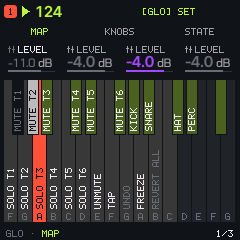
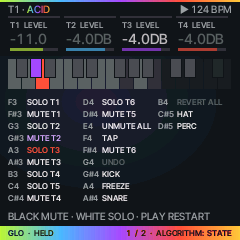
feat(ui): GLO layer in the ACID look

diff --git a/tests/ui_test.c b/tests/ui_test.c
@@ -11605,14 +11605,11 @@ static int test_lz_layer(void)
     int16_t b0;
     ui_power_on(); frame();
     btn_down(B_GLO); frames(800);
-    ok = ui.layer == LAYER_GLO && lz_on() && lz_fam() == LZ_LAYER && ui.lylv == 0u && lz_tab_lit(0) &&
-         lz_crumb_is("GLO \xB7 MAP");
+    ok = ui.layer == LAYER_GLO && lz_on() && lz_fam() == LZ_LAYER && !uxl_state(LAYER_GLO) && lz_crumb_is("GLO \xB7 MAP");
     turn(EN_ALGO, 1); frame();
-    ok &= ui.lylv == 1u && lz_tab_lit(1) && song.sel == 0u && lz_crumb_is("GLO \xB7 KNOBS");
+    ok &= uxl_state(LAYER_GLO) == 1u && ui.lylv == 0u && song.sel == 0u;   /* (3c-1 task 9: MAP and STATE, its own bit) */
     turn(EN_ALGO, 1); frame();
-    ok &= ui.lylv == 2u && lz_tab_lit(2);
-    turn(EN_ALGO, 1); frame();
-    ok &= ui.lylv == 2u && song.sel == 0u;                          /* (no wrap) */
+    ok &= uxl_state(LAYER_GLO) == 1u && song.sel == 0u;             /* (no further, no wrap) */
     b0 = song.g[G_BPM];
     turn(EN_SELECT, 2); frame();
     ok &= song.g[G_BPM] != b0;                                      /* (GLO + SELECT: the tempo, as before) */
@@ -11622,10 +11619,10 @@ static int test_lz_layer(void)
     ok &= song.sel == 1u;                                           /* (let go: ALGORITHM the track again) */
     turn(EN_ALGO, -1); frame();
     btn_down(B_GLO); frames(800);
-    ok &= ui.lylv == 2u && lz_tab_lit(2);                           /* (remembered) */
+    ok &= uxl_state(LAYER_GLO) == 1u;                               /* (remembered) */
     btn_up(B_GLO); frame(); frame();
-    ui.lylv = 0;
-    bad += check("0.8.5 LENTE layers: MAP <-> KNOBS <-> STATE by ALGORITHM while held (remembered); SELECT keeps its combos", ok);
+    ui.uxlv = 0;
+    bad += check("0.8.5 LENTE layers: MAP <-> STATE by ALGORITHM while held (remembered; 3c-1 task 9: GLO's own bit, no KNOBS); SELECT keeps its combos", ok);
     ui_power_on();
     return bad;
 }
@@ -17411,7 +17408,7 @@ static int test_t9_knobs(void)
             for (s = 0; s < 2u; s++) okw &= 8 + uxf_w(UXL_WHERE[k]) + 16 + uxf_w(UXL_ALGO[s]) <= 232;
         for (dm = 0; dm < 3u; dm++) {                    /* (3c-1 task 5: a synth, a DRUM track on each kit: CLEAR <lane>) */
         set_engine_of(TSEL, dm ? ENGI_DRUM : ENGI_ANALOG); TSEL->engine = TSEL->eng_req; TSEL->p[P_E0] = (int16_t)(dm ? dm - 1u : 0u);
-        for (l = 0; l < 6u; l++)                         /* every key's name a layer can show, in the list's column */
+        for (l = 0; l < 7u; l++)                         /* every key's name a layer can show (3c-1 task 9: GLO's too), in the list's column */
             for (s = 0; s < 3u; s++) {
                 pfx_tgt = (uint8_t)s;
                 rp_put(RP_CLICK, s);                     /* (CLICK OFF / REC / ON on REC's G3) */
@@ -17419,7 +17416,7 @@ static int test_t9_knobs(void)
                     char nm[12], nt[4];
                     int blk;
                     uint32_t p = uxl_key(k, &blk, nt);
-                    (void)ly_keyname(l < 4u ? UXT9_L[l] : l == 4u ? LAYER_SEQ : LAYER_REC, blk, p, nm);
+                    (void)ly_keyname(l < 4u ? UXT9_L[l] : l == 4u ? LAYER_SEQ : l == 5u ? LAYER_REC : LAYER_GLO, blk, p, nm);
                     if (nm[0] && UXL_LS_NM + text_w(&UF_LBL, uxl_word(nm)) > UXL_LS_W - 1) {
                         printf("  key %s: \"%s\" %d px\n", nt, uxl_word(nm), (int)text_w(&UF_LBL, uxl_word(nm))); okw = 0;
                     }
@@ -17513,6 +17510,77 @@ static int test_c5_layers(void)
     ui.uxlv = 0;
     bad += check("  .. REC: the knob row (K1 CLICK), the blend, its own view bit", ok);
     bad += check("  .. SEQ and REC are drawn by ux_layer.c", own);
+    ui_power_on();
+    return bad;
+}
+/* ---------------------------------------------- (ACID FM 3c-1 task 9) the GLO layer in the ACID look --- */
+static uint16_t uxc9_black(uint32_t j) { return ux_px(8u + PK_BLK[j] * UXL_KB_W - 5u + 4u, UX_Y_PANEL + UXL_KB_Y + 5u); }
+static uint16_t uxc9_white(uint32_t i) { return ux_px(8u + i * UXL_KB_W + 3u, UX_Y_PANEL + UXL_KB_Y + 25u); }
+static int test_c9_glo(void)
+{
+    int bad = 0, ok = 1;
+    uint32_t c;
+    ux_knob_t k[4];
+    uint16_t sc;
+    char nm[12];
+    ui_power_on(); frame();
+    go_title("ENV"); frame();
+    trk[1].p[P_MUTE] = 1; trk[3].p[P_MUTE] = 1;
+    btn_down(B_GLO); frames(800);
+    ok &= ui.layer == LAYER_GLO && ux_layer_owns(LAYER_GLO);
+    if (!ok) printf("  GLO: not open\n");
+    ui.force = 1; frame();
+    if (!uxt9_blend(ux_px(120, 0)) || !uxt9_blend(ux_px(2, 238))) { printf("  GLO: no blend line / band footer\n"); ok = 0; }
+    if (ux_px(236, UX_Y_STATUS + 10u) != UX_BG) { printf("  GLO: status not on BG\n"); ok = 0; }
+    if (uxc9_black(1) != UX_VIOLET || uxc9_black(3) != UX_VIOLET) { printf("  GLO: muted black keys %04x %04x\n", uxc9_black(1), uxc9_black(3)); ok = 0; }
+    if (uxc9_black(0) == UX_VIOLET) { printf("  GLO: T1 sounding but violet\n"); ok = 0; }
+    uxl_knobs(LAYER_GLO, k);                             /* KNOB 1..4: T1..T4 LEVEL, as HOME's window */
+    ok &= str_eq(k[0].label, "T1 LEVEL") && str_eq(k[3].label, "T4 LEVEL") && k[0].value[0] && k[1].off && !k[0].off;
+    if (!ok) printf("  GLO: knobs \"%s\" \"%s\" off %u %u\n", k[0].label, k[3].label, k[1].off, k[0].off);
+    for (c = 0; c < 4u; c++) {
+        uint32_t x = UX_COL_X0 + c * UX_COL_PITCH;
+        uint16_t r = ux_px(x + 20u, UX_Y_KNOBS);
+        if (r != UX_LINE && r != ux_knob_col(c)) { printf("  GLO knob %u: rule %04x\n", (unsigned)c, r); ok = 0; }
+    }
+    ok &= !strstr(uxl_status(LAYER_GLO, k, &sc), "CLOCK") && strstr(uxl_status(LAYER_GLO, k, &sc), "RESTART");
+    if (!ok) printf("  GLO: status \"%s\"\n", uxl_status(LAYER_GLO, k, &sc));
+    (void)ly_keyname(LAYER_GLO, 0, 7u, nm);              /* F4 TAP: breathes with the inside clock, in the ux fill */
+    if (uxc9_white(7) != ux_mix(UX_BG, UX_MID, 55) || !str_eq(nm, "TAP")) { printf("  GLO: F4 %04x want %04x\n", uxc9_white(7), ux_mix(UX_BG, UX_MID, 55)); ok = 0; }
+    turn(EN_K1, 3); frame();                             /* a knob turned: its readout on the status line */
+    ok &= strstr(uxl_status(LAYER_GLO, k, &sc), "T1 LEVEL") != 0 && sc == UX_TEXT;
+    if (!ok) printf("  GLO: turn status \"%s\"\n", uxl_status(LAYER_GLO, k, &sc));
+    key_down(white(2)); frames(4);                       /* a SOLO held: T3's key ACCENT, perf_solo */
+    ui.force = 1; frame();
+    if (uxc9_white(2) != UX_ACCENT || perf_solo != 4u) { printf("  GLO: solo key %04x solo %u\n", uxc9_white(2), (unsigned)perf_solo); ok = 0; }
+    key_up(white(2)); frames(4);
+    song.g[G_CLOCK] = 1; ui.force = 1; ui.msg_t = 0; ux_hot_k = -1; frame();   /* an outside clock: TAP dim, the status line says so */
+    if (uxc9_white(7) != UX_LINE) { printf("  GLO ext: F4 %04x\n", uxc9_white(7)); ok = 0; }
+    ok &= strstr(uxl_status(LAYER_GLO, k, &sc), "CLOCK: USB") != 0;
+    if (!ok) printf("  GLO ext: status \"%s\"\n", uxl_status(LAYER_GLO, k, &sc));
+    song.g[G_CLOCK] = 2;
+    ok &= strstr(uxl_status(LAYER_GLO, k, &sc), "CLOCK: TRS") != 0;
+    song.g[G_CLOCK] = 0;
+    ui.lylv = 0; ui.uxlv = 0;                            /* ALGORITHM: its own view bit; MAP <-> STATE */
+    turn(EN_ALGO, 1); frame();
+    ok &= ((ui.uxlv >> LAYER_GLO) & 1u) && !ui.lylv && uxl_state(LAYER_GLO);
+    turn(EN_ALGO, -1); frame();
+    ok &= !((ui.uxlv >> LAYER_GLO) & 1u);
+    btn_up(B_GLO); frames(400);
+    ui.uxlv = 0;
+    bad += check("ACID FM 3c-1 task 9: GLO in the ACID look: muted keys VIOLET, a solo held ACCENT, K1..K4 T1..T4 LEVEL, CLOCK: USB / TRS, own view bit", ok);
+    ok = 1;                                              /* DRUM-X group mutes on black 7..10 */
+    ui_power_on(); frame();
+    set_engine_of(TSEL, ENGI_DRUM); TSEL->engine = TSEL->eng_req;
+    go_title("ENV"); frame();
+    btn_down(B_GLO); frames(800);
+    dx_mute_set(DXG_KICK | DXG_HAT);
+    ui.force = 1; frame();
+    (void)ly_keyname(LAYER_GLO, 1, 6u, nm);
+    ok &= str_eq(nm, "KICK");
+    if (uxc9_black(6) != UX_VIOLET || uxc9_black(8) != UX_VIOLET || uxc9_black(7) == UX_VIOLET) { printf("  GLO DRUM: group keys %04x %04x %04x\n", uxc9_black(6), uxc9_black(7), uxc9_black(8)); ok = 0; }
+    btn_up(B_GLO); frames(400);
+    dx_mute_set(0);
+    bad += check("  .. a DRUM track: KICK SNARE HAT PERC on black 7..10, muted ones VIOLET", ok);
     ui_power_on();
     return bad;
 }
@@ -17716,18 +17784,18 @@ static int test_t9_fix(void)
     btn_up(B_FX); frames(400);
     if (fx_lock) { press(B_FX); frames(100); }
     btn_down(B_GLO); frames(800);
-    ok &= ui.layer == LAYER_GLO && ui.lylv == 0u;
+    ok &= ui.layer == LAYER_GLO && uxl_state(LAYER_GLO) == 0u;
     turn(EN_ALGO, 1); frame();
-    ok &= ui.lylv == 1u;
+    ok &= uxl_state(LAYER_GLO) == 1u && ui.lylv == 0u;
     btn_up(B_GLO); frames(400);
     btn_down(B_FX); frames(800);
-    ok &= ui.layer == LAYER_FX && uxl_state(LAYER_FX) == 1u && ui.lylv == 1u;
+    ok &= ui.layer == LAYER_FX && uxl_state(LAYER_FX) == 1u && uxl_state(LAYER_GLO) == 1u;
     btn_up(B_FX); frames(400);
     if (fx_lock) { press(B_FX); frames(100); }
     btn_down(B_EDIT); frames(800);
     ok &= ui.layer == LAYER_EDIT && uxl_state(LAYER_EDIT) == 0u;
     btn_up(B_EDIT); frames(400);
-    if (!ok) printf("  views: FX %u EDIT %u GLO %u\n", (unsigned)uxl_state(LAYER_FX), (unsigned)uxl_state(LAYER_EDIT), ui.lylv);
+    if (!ok) printf("  views: FX %u EDIT %u GLO %u\n", (unsigned)uxl_state(LAYER_FX), (unsigned)uxl_state(LAYER_EDIT), (unsigned)uxl_state(LAYER_GLO));
     bad += check("  a layer's view (ALGORITHM) its own: FX's STATE not GLO's, GLO's KNOBS not FX's, EDIT still MAP", ok);
     /* 5. EDIT's status line says SELECT dices (a synth and DRUM) */
     ok = strstr(UXL_SAY[UXL_S_EDIT], "SELECT DICE") && strstr(UXL_SAY[UXL_S_EDRM], "SELECT DICE");
@@ -19627,6 +19695,7 @@ int main(void)
     bad += test_t8_names();
     bad += test_t8_fix();                               /* (ACID FM 3b task 8 fix) */
     bad += test_t9_look();                              /* (ACID FM 3b task 9) */
+    bad += test_c9_glo();                               /* (ACID FM 3c-1 task 9) */
     bad += test_c5_layers();                            /* (ACID FM 3c-1 task 5) */
     bad += test_t9_knobs();
     bad += test_t9_names();

diff --git a/firmware/src/ux_layer.c b/firmware/src/ux_layer.c
@@ -1,7 +1,7 @@
 /* SPDX-License-Identifier: GPL-3.0-only */
 /* Copyright (C) 2026 NorfolkHacker */
-/* ACID FM's held layers (ux_layer.h; 3b spec 2.6; 3c-1 task 5 spec 2.6): EDIT, LFO's MACRO, FX's performance layer, SCL, SEQ TOOLS
- * and REC in the 3a look. The keys,
+/* ACID FM's held layers (ux_layer.h; 3b spec 2.6; 3c-1 tasks 5, 9 spec 2.6, 3.4): EDIT, LFO's MACRO, FX's performance layer, SCL,
+ * SEQ TOOLS, REC and GLO (the mutes, the solos, KNOB 1..4 the levels) in the 3a look. The keys,
  * the knobs, the LEDs, the gesture and the latches are ui_layer.c's (ly_keyname names each key and its state, layer_knob turns
  * the knobs, layer_state lists what is on): only the drawing is here. The screen as a section page's (ux_section.c): the header
  * (T3 . the sound, the transport), the knob row (the layer's four in KNOB 1..4's colours, plain names: FX's macros or the
@@ -13,7 +13,8 @@
 
 static int ux_layer_owns(uint32_t l)
 {
-    return l == LAYER_EDIT || l == LAYER_MACRO || l == LAYER_FX || l == LAYER_SCL || l == LAYER_SEQ || l == LAYER_REC;
+    return l == LAYER_EDIT || l == LAYER_MACRO || l == LAYER_FX || l == LAYER_SCL || l == LAYER_SEQ || l == LAYER_REC ||
+           l == LAYER_GLO;
 }
 
 /* FX's KNOB 1..4, the performance macros (perform.c perf_m), by what they do (spec 0 rule 4; one name a meaning): STEP LOOP
@@ -26,16 +27,18 @@ static const char *const UXL_IVL[8] = {"OFF", "+2ND", "+3RD", "+4TH", "+5TH", "+
 /* .. while a glitcher's key is down, its four (ui_layer.c GX_K: GLITCH, TAPE STOP, SHUFFLE, FREEZE; JIANT's DENS VARI) */
 static const char *const UXL_GX[16] = {"DENSITY", "PITCH", "SIZE", "VARIANT", "SCRATCH", "TIME", "CURVE", "",
                                        "AMOUNT", "SIZE", "SPEED", "VARIANT", "DENSITY", "PITCH", "SPRAY", "SIZE"};
+static const char *const UXL_LV[NTRK] = {"T1 LEVEL", "T2 LEVEL", "T3 LEVEL", "T4 LEVEL", "T5 LEVEL", "T6 LEVEL"};   /* GLO's */
 static const char *const UXL_MAC[4] = {"MACRO 1", "MACRO 2", "MACRO 3", "MACRO 4"};   /* (the matrix's SOURCE names) */
 /* the keys' words (ly_keyname's, JIANT's) in plain ones on the MAP; the others as they are */
-static const char *const UXL_KEYJ[16] = {"RPT 1/8", "RPT 1/16", "RPT 1/32", "OCT-", "OCT+", "1/2 TEMPO", "DEC-", "DEC+",
-                                         "STUT 1/8", "STUT 1/16", "ATK+", "TRK ALL", "TRK SYN", "TRK DRM", "INIT+KIT", "RCL+KIT"};
-static const char *const UXL_KEYP[16] = {"REPEAT 1/8", "REPEAT 1/16", "REPEAT 1/32", "OCT DOWN", "OCT UP", "HALF TEMPO",
+static const char *const UXL_KEYJ[17] = {"RPT 1/8", "RPT 1/16", "RPT 1/32", "OCT-", "OCT+", "1/2 TEMPO", "DEC-", "DEC+",
+                                         "STUT 1/8", "STUT 1/16", "ATK+", "TRK ALL", "TRK SYN", "TRK DRM", "INIT+KIT", "RCL+KIT",
+                                         "UNMUTE"};
+static const char *const UXL_KEYP[17] = {"REPEAT 1/8", "REPEAT 1/16", "REPEAT 1/32", "OCT DOWN", "OCT UP", "HALF TEMPO",
                                          "DECAY -", "DECAY +", "STUTTER 1/8", "STUTTER 1/16", "ATTACK +", "ON ALL", "ON SYNTHS",
-                                         "ON DRUMS", "INIT + KIT", "RECALL + KIT"};
+                                         "ON DRUMS", "INIT + KIT", "RECALL + KIT", "UNMUTE ALL"};
 /* the status line's words when nothing else is said: the layer, what its keys and OCT do */
 enum { UXL_S_FX, UXL_S_LATCH, UXL_S_LOCK, UXL_S_EDIT, UXL_S_EDRM, UXL_S_SCL, UXL_S_MAC, UXL_S_MLAT, UXL_S_TOOLS, UXL_S_TDRM,
-       UXL_S_TBUSY, UXL_S_REC, UXL_S_N };
+       UXL_S_TBUSY, UXL_S_REC, UXL_S_GLO, UXL_S_GUSB, UXL_S_GTRS, UXL_S_N };
 static const char *const UXL_SAY[UXL_S_N] = {"FX: KEYS PLAY EFFECTS \xB7 BLACK KEYS MUTE", "FX LATCH: KEYS ON / OFF \xB7 OCT- ALL OFF",
                                              "FX LOCKED: PRESS FX TO UNLOCK", "EDIT: F3 INIT \xB7 G3 RECALL \xB7 SELECT DICE",
                                              "EDIT: SELECT DICE \xB7 BLACK KEYS MUTE",
@@ -44,15 +47,19 @@ static const char *const UXL_SAY[UXL_S_N] = {"FX: KEYS PLAY EFFECTS \xB7 BLACK K
                                              "SEQ TOOLS: WHITE KEYS \xB7 REC CLEARS ALL",
                                              "SEQ TOOLS: LANES ON BLACK \xB7 REC CLEARS ALL",
                                              "STOP TO EDIT \xB7 REC CLEARS ALL",
-                                             "REC: F3 CLEAR \xB7 G3 CLICK \xB7 KNOB 1 CLICK"};
+                                             "REC: F3 CLEAR \xB7 G3 CLICK \xB7 KNOB 1 CLICK",
+                                             "BLACK MUTE \xB7 WHITE SOLO \xB7 PLAY RESTART",   /* (3c-1 task 9) */
+                                             "CLOCK: USB \xB7 NO TAP \xB7 NO RESTART",
+                                             "CLOCK: TRS \xB7 NO TAP \xB7 NO RESTART"};
 static const char *const UXL_GXSAY[4] = {"GLITCH HELD: ITS FOUR KNOBS", "TAPE STOP HELD: KNOB 1 SCRATCHES",
                                          "SHUFFLE HELD: ITS FOUR KNOBS", "FREEZE HELD: ITS FOUR KNOBS"};
 /* the footer: the layer and how it is open; ALGORITHM's next view (MAP, STATE) */
-enum { UXL_W_FX, UXL_W_LATCH, UXL_W_LOCK, UXL_W_EDIT, UXL_W_SCL, UXL_W_MAC, UXL_W_MLAT, UXL_W_TOOLS, UXL_W_REC, UXL_W_N };
+enum { UXL_W_FX, UXL_W_LATCH, UXL_W_LOCK, UXL_W_EDIT, UXL_W_SCL, UXL_W_MAC, UXL_W_MLAT, UXL_W_TOOLS, UXL_W_REC, UXL_W_GLO, UXL_W_N };
 static const char *const UXL_WHERE[UXL_W_N] = {"FX \xB7 HOLD", "FX \xB7 LATCH", "FX \xB7 LOCKED", "EDIT \xB7 HELD", "SCL \xB7 HELD",
-                                               "LFO \xB7 MACROS", "LFO \xB7 LATCHED", "SEQ \xB7 TOOLS", "REC \xB7 HELD"};
+                                               "LFO \xB7 MACROS", "LFO \xB7 LATCHED", "SEQ \xB7 TOOLS", "REC \xB7 HELD",
+                                               "GLO \xB7 HELD"};
 static const char *const UXL_ALGO[2] = {"1 / 2 \xB7 ALGORITHM: STATE", "2 / 2 \xB7 ALGORITHM: MAP"};
-/* (3b task 9 fix) layer l's view: 1 STATE, 0 MAP (its own: ui.uxlv; GLO SAVE keep ui.lylv) */
+/* (3b task 9 fix) layer l's view: 1 STATE, 0 MAP (its own: ui.uxlv; SAVE keeps ui.lylv) */
 static uint32_t uxl_state(uint32_t l) { return (ui.uxlv >> l) & 1u; }
 static uint32_t uxl_panels;                             /* the panels drawn (tests/ui_test.c: one a change, none idle) */
 
@@ -105,6 +112,16 @@ static void uxl_knobs(uint32_t l, ux_knob_t k[4])
             str_cpy(k[c].value + str_len(k[c].value), "%", sizeof k[c].value - str_len(k[c].value));
             k[c].bar = (uint8_t)(macro_v[c] * 255u / 127u);
         }
+    } else if (l == LAYER_GLO) {                        /* T1..T4 LEVEL (T5, T6 selected: T3..T6), as HOME's window; a muted or
+                                                         * unsoloed track's dim */
+        for (c = 0; c < 4u; c++) {
+            uint32_t t = c + trk_base4();
+            int16_t v = trk[t].p[P_LEVEL];
+            k[c].label = UXL_LV[t % NTRK];
+            uxs_val(&TP[P_LEVEL], v, k[c].value, sizeof k[c].value);
+            k[c].bar = (uint8_t)clamp((v - TP[P_LEVEL].min) * 255 / (TP[P_LEVEL].max - TP[P_LEVEL].min), 0, 255);
+            k[c].off = (uint8_t)!glo_sounding(t);
+        }
     } else if (l == LAYER_REC) {                        /* K1 CLICK (OFF REC ON); K2..K4 are nobody's (ui_layer.c RL_N) */
         uint32_t v = rp_get(RL_F[0]);
         k[0].label = RL_LABEL[0];
@@ -153,6 +170,8 @@ static const char *uxl_status(uint32_t l, const ux_knob_t k[4], uint16_t *col)
         return UXL_SAY[UXL_S_SCL];
     if (l == LAYER_REC)
         return UXL_SAY[UXL_S_REC];
+    if (l == LAYER_GLO)                                 /* (an outside clock: TAP and RESTART refuse, tempo_ext / layer_play) */
+        return UXL_SAY[song.g[G_CLOCK] ? song.g[G_CLOCK] == 1 ? UXL_S_GUSB : UXL_S_GTRS : UXL_S_GLO];
     if (l == LAYER_SEQ)
         return UXL_SAY[chain_busy() ? UXL_S_TBUSY : drum_track(TSEL) ? UXL_S_TDRM : UXL_S_TOOLS];
     return UXL_SAY[layer_open() ? UXL_S_MAC : UXL_S_MLAT];
@@ -161,8 +180,8 @@ static const char *uxl_where(uint32_t l)
 {
     if (l == LAYER_FX)
         return UXL_WHERE[fx_lock && !ui.ly ? UXL_W_LOCK : perf_latch_on ? UXL_W_LATCH : UXL_W_FX];
-    if (l == LAYER_SEQ || l == LAYER_REC)
-        return UXL_WHERE[l == LAYER_SEQ ? UXL_W_TOOLS : UXL_W_REC];
+    if (l == LAYER_SEQ || l == LAYER_REC || l == LAYER_GLO)
+        return UXL_WHERE[l == LAYER_SEQ ? UXL_W_TOOLS : l == LAYER_REC ? UXL_W_REC : UXL_W_GLO];
     return UXL_WHERE[l == LAYER_EDIT ? UXL_W_EDIT : l == LAYER_SCL ? UXL_W_SCL : layer_open() ? UXL_W_MAC : UXL_W_MLAT];
 }
 

diff --git a/firmware/src/ui_layer.c b/firmware/src/ui_layer.c
@@ -6,11 +6,11 @@
  * are its shortcuts and its map shows over the page. One table (LAYERS) drives the gesture, the keys, the knobs,
  * the LEDs and the overlay:
  *   FX   HOLD  the performance effects (perform.c) and the track mutes while held; KNOB 1..4 its macros
- *   GLO  SET   black keys 1..4 (F#3 G#3 A#3 C#4) T1..T4 MUTE (latched; lit = sounding), F3..B3 SOLO T1..T4 while
- *              held (HOLD cells, a corner triangle), C4 UNMUTE ALL, F4 TAP tempo; KNOB 1..4 T1..T4 LEVEL;
- *              black keys 5..8 (D#4 F#4 G#4 A#4) the DRUM group mutes KICK SNARE HAT PERC (eng_drum.c dx_mute; the
- *              row shows while a track plays DRUM; C4 unmutes them too);
- *              GLO + PLAY: from the top without stopping
+ *   GLO  SET   black keys 1..6 (F#3 G#3 A#3 C#4 D#4 F#4) T1..T6 MUTE (latched; lit = sounding), black keys 7..10 (G#4 A#4
+ *              C#5 D#5) the DRUM group mutes KICK SNARE HAT PERC (eng_drum.c dx_mute; shown while a track plays DRUM);
+ *              white keys F3..D4 SOLO T1..T6 while held (perform.c perf_solo), E4 UNMUTE ALL (tracks and groups), F4 TAP
+ *              tempo (the inside clock only), G4 UNDO, A4 MUTATE FREEZE, B4 REVERT ALL; KNOB 1..4 T1..T4 LEVEL (T5, T6
+ *              selected: T3..T6); GLO + PLAY: from the top without stopping (the inside clock only); drawn by ux_layer.c
  *   SCL  SET   any key: its note name is ROOT; KNOB 1..4 ROOT SCALE ROTATE PITCH (LY_SCL: P_ROOT P_SCALE, the SCL page's
  *              first two, then P_SOFS P_POFS, SEQ > MORE's ROTATE and SEQ PITCH since ACID FM 3c-1 task 4, kept on the layer:
  *              its knobs keep their job; 3b task 9: named as SCL names them, ux_layer.c); the LEDs show the root lit and the
@@ -58,7 +58,7 @@ typedef struct {
 static const layer_t LAYERS[LAYER_N] = {
     {0, 0, 0, "", {{0, 0}, {0, 0}, {0, 0}}},
     {B_FX, LK_HOLD, FAM_HOME, "[FX] HOLD", {{KC_KEYS, "EFFECTS"}, {KC_K14, "MACROS"}, {0, 0}}},   /* (LET GO: the header's HOLD) */
-    {B_GLO, LK_SET, FAM_HOME, "[GLO] SET", {{KC_PLAY, "RESTART"}, {KC_GLO, "DONE"}, {0, 0}}},
+    {B_GLO, LK_SET, FAM_HOME, "[GLO] SET", {{0, 0}, {0, 0}, {0, 0}}},   /* (3c-1 task 9: drawn by ux_layer.c) */
     {B_SCL, LK_SET, FAM_SCL, "[SCL] SET", {{KC_KEYS, "ROOT"}, {KC_SCL, "DONE"}, {0, 0}}},
     {B_EDIT, LK_SET, FAM_EDIT, "[EDIT] SET", {{KC_KEYS, "INIT / RECALL"}, {KC_EDIT, "DONE"}, {0, 0}}},
     {B_SEQ, LK_SET, FAM_SEQ, "[SEQ] TOOLS", {{0, 0}, {0, 0}, {0, 0}}},   /* (3c-1: drawn by ux_layer.c, its status
@@ -1025,20 +1025,11 @@ static void ly_piano(uint32_t l)
             cv_text_up(x0 + HALF_UP(10 - AF_X_CAP_H) - AF_X_CAP_Y, y + bh - 4, &AF_X, nm, fill == T_BG ? T_DIM : ink, fill, bh - 8);
     }
 }
-/* (3c-1 task 5) GLO's and SAVE's cards: the rest are ux_layer.c's knob row */
+/* (3c-1 tasks 5, 9) SAVE's cards: the rest are ux_layer.c's knob row */
 static void layer_cards(uint32_t l)
 {
     char val[12];
-    const char *unit;
-    uint32_t c;
-    if (l == LAYER_GLO) {                               /* T1..T4 LEVEL (T5, T6 selected: T3..T6; the icon; muted: dim) */
-        for (c = 0; c < 4u; c++) {
-            uint32_t t = c + trk_base4();
-            param_format(&TP[P_LEVEL], trk[t].p[P_LEVEL], val, &unit);
-            draw_column(c, "LEVEL", val, unit, glo_sounding(t) ? VAL(c) : T_DIM, RATIO(&TP[P_LEVEL], trk[t].p[P_LEVEL]),
-                        trk_icon(t, 1));
-        }
-    } else if (l == LAYER_SAVE) {                       /* the section, LOOP / SONG, SONG REC, the song row */
+    if (l == LAYER_SAVE) {                              /* the section, LOOP / SONG, SONG REC, the song row */
         uint32_t n = lys.song ? lys.song - 1u : song_cur;
         fmt_int(val, (int32_t)n + 1);
         draw_column(0, "SONG", val, n != song_cur ? "NEXT" : "", VAL(0u), (int32_t)(n * 1000u / (NSONG - 1u)),

diff --git a/firmware/src/ui.c b/firmware/src/ui.c
@@ -303,9 +303,9 @@ static struct {
     uint8_t menu;                /* 0 off, 1 list, 2 about + credits (HOME held), 3 ABOUT > PROFILE (0.9.14) */
     uint8_t menu_sel;            /* MENU: the setting turned last (menu_items.c MI_*; its page MPAGE), kept while it runs */
     uint8_t mlv;                 /* (0.8.5) MENU's view: 1 TAB (its rows; 0.9.2: always, 0 MENU and 2 ROW for the renders) */
-    uint8_t lylv;                /* (0.8.5) a held layer's lens: 0 MAP, 1 KNOBS, 2 STATE (ALGORITHM while held); GLO, SAVE
-                                  * (JIANT's overlay; the ACID layers keep uxlv) */
-    uint16_t uxlv;               /* (3b task 9 fix) the ACID layers' (EDIT MACRO FX SCL SEQ REC, ux_layer.c) own: a bit a layer
+    uint8_t lylv;                /* (0.8.5) a held layer's lens: 0 MAP, 1 KNOBS, 2 STATE (ALGORITHM while held); SAVE only
+                                  * (JIANT's overlay; every other layer keeps uxlv) */
+    uint16_t uxlv;               /* (3b task 9 fix) the ACID layers' (EDIT MACRO FX SCL GLO SEQ REC, ux_layer.c) own: a bit a layer
                                   * (1 << LAYER_*), STATE; clear MAP */
     uint16_t menu_scroll;        /* continuous ABOUT + CREDITS position, pixels */
     uint32_t menu_sig, home_t0;  /* HOME press time (btn_hold) */

diff --git a/tests/ui_render.c b/tests/ui_render.c
@@ -1345,7 +1345,7 @@ static void setup(int s)
         perf_held = perf_act = PF_BIT(PF_R16) | PF_BIT(PF_GLT) | PF_BIT(PF_SCRU) | PF_BIT(PF_M1 + 1);
         perf_m[0] = 6; perf_m[1] = 7; perf_m[2] = 40; perf_m[3] = 30; pf.sw[0] = 1u << 23;   /* (0.9.14: the macros) */
         break;
-    case S_LY_GLO_STATE: go_home(); ui.layer = LAYER_GLO; ui.lylv = 2; break;
+    case S_LY_GLO_STATE: go_home(); ui.layer = LAYER_GLO; ui.uxlv = 1u << LAYER_GLO; break;   /* (3c-1 task 9: its own bit) */
     case S_MENU_ROW: case S_MENU_ROW_LEDS:             /* (0.9.18) the knob just turned: COLOR's card lit (SCREEN), LED GLOW's
                                                          * (LEDS, KNOB 1) */
         ui.menu = 1; ui.menu_sel = s == S_MENU_ROW ? MI_COLOR : MI_LEDS; ui.hot_col = 0u; ui.hot_t = 30;
